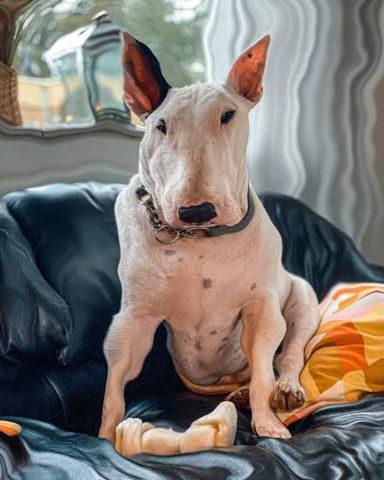
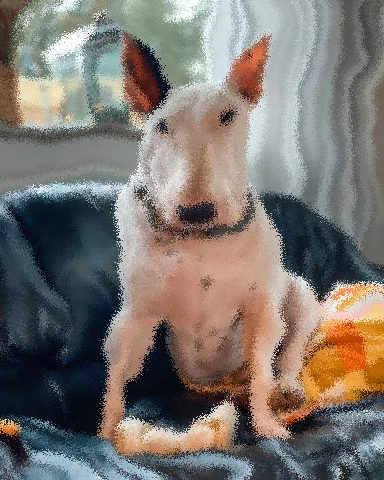
refactor(displace)!: fold scatter into displace
scatter is displace at scale 1 with one octave and interpolation
'nearest': at scale 1 the noise lattice is the pixel grid, so every
pixel moves on its own, and 'nearest' blends no colours. No parameter
is added; displace's scale doc names the look and its example recipe
gains a frosted-glass step. Every caller of scatter is migrated, the
scatter slice is deleted.

Look change (accepted, D4): scatter's uniform whole-pixel jitter
becomes normally distributed, scaled so the farthest move is `amount`;
a few pixels reach farther, most stay nearer. Matching strength is
amount about 3 x the old radius. Measured on bullterrier.jpeg at 320
and 480 px, scatter radius 2/4/8/16 vs displace amount 6/12/24/48
(seed 2), max abs diff 0.86..0.99, mean abs diff 0.051..0.172; mean
change from the photo 0.036..0.154 (displace) vs 0.045..0.154 (scatter).

diff --git a/tests/effects/displace/test_displace.py b/tests/effects/displace/test_displace.py
@@ -111,3 +111,30 @@ def test_the_edge_rule_only_matters_within_amount_of_the_border(edge: str) -> No
     out = registry.apply(NAME, ramps(), **SETTINGS, edge=edge)
     np.testing.assert_allclose(interior(out), interior(reference), atol=1e-5)
     assert edge == "reflect" or np.abs(out - reference).max() > 1e-3  # a ramp changes 0.005 per px
+
+
+FROSTED = {"amount": 8.0, "scale": 1.0, "octaves": 1, "interpolation": "nearest", "seed": 3}
+
+
+def neighbour_correlation(shift: np.ndarray) -> float:
+    """How alike each pixel's move is to the move of the pixel to its right: the correlation of a field with itself
+    shifted by one column (1 = moves in step, 0 = independent)."""
+    return float(np.corrcoef(shift[:, :-1].ravel(), shift[:, 1:].ravel())[0, 1])
+
+
+def test_at_scale_one_every_pixel_moves_independently_of_its_neighbours() -> None:
+    """Frosted glass: at scale 1 the lattice is the pixel grid, so neighbours share nothing; at scale 12 they do."""
+    frosted = offsets(registry.apply(NAME, ramps(), **FROSTED))[1]
+    smooth = offsets(registry.apply(NAME, ramps(), **{**FROSTED, "scale": 12.0}))[1]
+    assert abs(neighbour_correlation(interior(frosted))) < 0.1
+    assert neighbour_correlation(interior(smooth)) > 0.8
+
+
+def test_frosted_pixels_are_whole_pixel_moves_no_longer_than_amount_that_spread_both_ways() -> None:
+    """With 'nearest' no colours are blended: each output pixel is an input pixel, a whole number of pixels away."""
+    shift_rows, shift_cols = (interior(o) for o in offsets(registry.apply(NAME, ramps(), **FROSTED)))
+    for shift in (shift_rows, shift_cols):
+        np.testing.assert_allclose(shift, np.rint(shift), atol=1e-3)
+        assert np.abs(shift).max() <= 8
+        assert shift.min() < -3 < 3 < shift.max()  # moves go both ways, not one-sided
+        assert shift.std() > 1.0

diff --git a/src/bullterrier_image/effects/displace/effect.py b/src/bullterrier_image/effects/displace/effect.py
@@ -28,7 +28,8 @@ class DisplaceParams(EffectParams):
         min=1,
         max=1024,
         doc="Size of the coarsest waves of the displacement in pixels, the spacing of the first noise lattice. Larger "
-        "= broad, slow wobbles that bend the picture; small = fine, jittery tearing.",
+        "= broad, slow wobbles that bend the picture; small = fine, jittery tearing; 1 (with 1 octave and 'nearest') = "
+        "every pixel moves on its own, frosted glass, most by about a quarter of `amount`.",
     )
     octaves: int = param(
         3,

diff --git a/docs/effects-roadmap.md b/docs/effects-roadmap.md
@@ -142,7 +142,7 @@ Dropped: `cellular_automata` (noisy specks, little value).
 | `swirl` ✓ | Twist around a point. | `fx.swirl(angle=120, radius=0.5)` |
 | `pinch_bulge` ✓ | Push in or out. | `fx.pinch_bulge(amount=0.5)` |
 | `ripple` ✓ | Travelling wave displacement. | `fx.ripple(wavelength=40, amplitude=6, phase=0)` |
-| `displace` ✓ | Move pixels by noise or a map. | `fx.displace(amount=12, scale=80, seed=1)` |
+| `displace` ✓ | Move pixels by noise or a map; at `scale=1` with `interpolation="nearest"` each pixel moves on its own (frosted glass). | `fx.displace(amount=12, scale=80, seed=1)` |
 | `lens_distortion` ✓ | Barrel or pincushion. | `fx.lens_distortion(distortion=0.2)` |
 | `fisheye` ✓ | Wide-angle bulge. | `fx.fisheye(amount=0.6)` |
 | `polar` ✓ | To or from polar coordinates (tiny planet). | `fx.polar(mode="to")` |
@@ -154,7 +154,6 @@ Dropped: `cellular_automata` (noisy specks, little value).
 | `melt` ✓ | Brightness-driven drips running down. | `fx.melt(amount=40, seed=1)` |
 | `flow_warp` ✓ | Smeared by a noise flow field. | `fx.flow_warp(scale=80, amount=20, seed=1)` |
 | `stretch` ✓ | Smear one pixel row or column outward. | `fx.stretch(axis="vertical", at=0.5)` |
-| `scatter` ✓ | Random pixel displacement. | `fx.scatter(radius=4, seed=1)` |
 | `shatter` ✓ | Cracked-glass pieces, slightly offset and rotated; or flat stained glass and low-poly triangles (`fill`, `detail`, `shape`). | `fx.shatter(pieces=24, gap=1.5, seed=1)` |
 | `droste` ✓ | Recursive picture-in-picture spiral. | `fx.droste(scale=0.5)` |
 | `slice_shift` ✓ | Horizontal slices slide (a subset of `glitch`). | `fx.slice_shift(slices=30, amount=0.05)` |
@@ -369,7 +368,6 @@ band), resolved like a `Drive`'s `by`; only named fields are built. This merges 
 | `fog`, `smoke` | one, with presets |
 | `crt`, `hologram` | recipes (`scanlines` gains `softness`; `lens_distortion` gains a border colour; needs `edges`) |
 | `fisheye` | `lens_distortion` + `model` |
-| `scatter` | `displace` |
 | `split_tone`, `color_balance` | one three-range tool |
 | `overlay` | `blend` + `fit="width"` |
 | `evaporate` | `disperse`, if its looks are reachable at a fixed `progress` |
